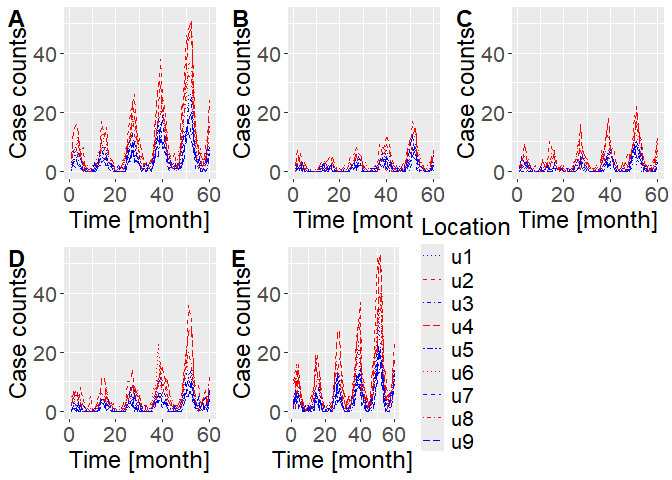
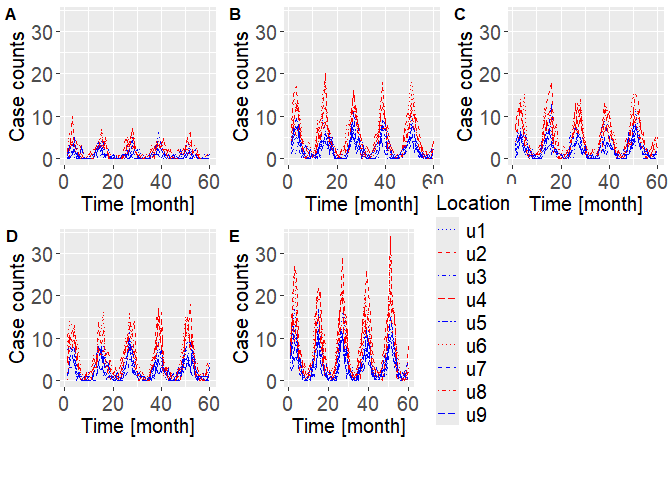
update

diff --git a/src/cppFunctions.cpp b/src/cppFunctions.cpp
@@ -991,8 +991,15 @@ List SMOOTHINGgradmultstrainLoglikelihood_cpp(arma::cube y, arma::mat e_it, int 
       grad_r = arma::sum(delta, 0).t() - Q_r * r;
       grad_r = Qstz_r.t() * grad_r;
       arma::mat diag_pois_colsum = arma::diagmat(arma::sum(poisMean, 0));
-      cov_r = arma::inv_sympd(diag_pois_colsum + Q_r + arma::eye(time, time) * 1e-8);
-      cov_r = Qstz_r.t() * cov_r * Qstz_r;
+      arma::mat precision_r = diag_pois_colsum + Q_r + arma::eye(time, time) * 1e-8;
+      arma::mat cov_r_raw;
+      bool successR = arma::inv_sympd(cov_r_raw, precision_r);
+      if(!successR){
+        cov_r = arma::eye(time, time);
+        loglike_total = R_NegInf;
+      }else{
+        cov_r = Qstz_r.t() * cov_r_raw * Qstz_r;
+      }
 
       // Seasonal s gradients
       arma::vec fishervec_s(12, arma::fill::zeros);
@@ -1007,16 +1014,29 @@ List SMOOTHINGgradmultstrainLoglikelihood_cpp(arma::cube y, arma::mat e_it, int 
       }
       grad_s -= Q_s * s;
       grad_s = Qstz_s.t() * grad_s;
-      cov_s = arma::inv_sympd(arma::diagmat(fishervec_s) + Q_s  + arma::eye(12, 12) * 1e-8);
-      cov_s = Qstz_s.t() * cov_s * Qstz_s;
-
+      arma::mat precision_s = arma::diagmat(fishervec_s) + Q_s  + arma::eye(12, 12) * 1e-8;
+      arma::mat cov_s_raw;
+      bool successS = arma::inv_sympd(cov_s_raw, precision_s);
+      if(!successS){
+        cov_s = arma::eye(12, 12);
+        loglike_total = R_NegInf;
+      }else{
+        cov_s = Qstz_s.t() * cov_s_raw * Qstz_s;
+      }
 
       // Spatial u gradients
       grad_u = arma::sum(delta, 1) - Q_u * u;
       grad_u = Qstz_u.t() * grad_u;
       arma::mat diag_pois_rowsum = arma::diagmat(arma::sum(poisMean, 1));
-      cov_u = arma::inv_sympd(diag_pois_rowsum + Q_u + arma::eye(ndept, ndept) * 1e-8);
-      cov_u = Qstz_u.t() * cov_u * Qstz_u;
+      arma::mat precision_u = diag_pois_rowsum + Q_u + arma::eye(ndept, ndept) * 1e-8;
+      arma::mat cov_u_raw;
+      bool successU = arma::inv_sympd(cov_u_raw, precision_u);
+      if(!successU){
+        cov_u = arma::eye(ndept, ndept);
+        loglike_total = R_NegInf;
+      }else{
+        cov_u = Qstz_u.t() * cov_u_raw * Qstz_u;
+      }
     }
 
     return List::create(
@@ -1265,8 +1285,15 @@ List FFBSgradmultstrainLoglikelihood_cpp(arma::cube y, arma::mat e_it, int nstra
       grad_r = arma::sum(delta, 0).t() - Q_r * r;
       grad_r = Qstz_r.t() * grad_r;
       arma::mat diag_pois_colsum = arma::diagmat(arma::sum(poisMean, 0));
-      cov_r = arma::inv_sympd(diag_pois_colsum + Q_r + arma::eye(time, time) * 1e-8);
-      cov_r = Qstz_r.t() * cov_r * Qstz_r;
+      arma::mat precision_r = diag_pois_colsum + Q_r + arma::eye(time, time) * 1e-8;
+      arma::mat cov_r_raw;
+      bool successR = arma::inv_sympd(cov_r_raw, precision_r);
+      if(!successR){
+        cov_r = arma::eye(time, time);
+        loglike_total = R_NegInf;
+      }else{
+        cov_r = Qstz_r.t() * cov_r_raw * Qstz_r;
+      }
 
       // Seasonal s gradients
       arma::vec fishervec_s(12, arma::fill::zeros);
@@ -1281,15 +1308,29 @@ List FFBSgradmultstrainLoglikelihood_cpp(arma::cube y, arma::mat e_it, int nstra
       }
       grad_s -= Q_s * s;
       grad_s = Qstz_s.t() * grad_s;
-      cov_s = arma::inv_sympd(arma::diagmat(fishervec_s) + Q_s  + arma::eye(12, 12) * 1e-8);
-      cov_s = Qstz_s.t() * cov_s * Qstz_s;
+      arma::mat precision_s = arma::diagmat(fishervec_s) + Q_s  + arma::eye(12, 12) * 1e-8;
+      arma::mat cov_s_raw;
+      bool successS = arma::inv_sympd(cov_s_raw, precision_s);
+      if(!successS){
+        cov_s = arma::eye(12, 12);
+        loglike_total = R_NegInf;
+      }else{
+        cov_s = Qstz_s.t() * cov_s_raw * Qstz_s;
+      }
 
       // Spatial u gradients
       grad_u = arma::sum(delta, 1) - Q_u * u;
       grad_u = Qstz_u.t() * grad_u;
       arma::mat diag_pois_rowsum = arma::diagmat(arma::sum(poisMean, 1));
-      cov_u = arma::inv_sympd(diag_pois_rowsum + Q_u + arma::eye(ndept, ndept) * 1e-8);
-      cov_u = Qstz_u.t() * cov_u * Qstz_u;
+      arma::mat precision_u = diag_pois_rowsum + Q_u + arma::eye(ndept, ndept) * 1e-8;
+      arma::mat cov_u_raw;
+      bool successU = arma::inv_sympd(cov_u_raw, precision_u);
+      if(!successU){
+        cov_u = arma::eye(ndept, ndept);
+        loglike_total = R_NegInf;
+      }else{
+        cov_u = Qstz_u.t() * cov_u_raw * Qstz_u;
+      }
     }
 
     return List::create(

diff --git a/README.md b/README.md
@@ -50,35 +50,84 @@ sim_adjmat<- matrix(0, nrow = 9, ncol = 9)
 uppertriang<- c(1,0,1,0,0,0,0,0,1,0,1,0,0,0,0,0,0,1,0,0,0,1,0,1,0,0,1,0,1,0,0,0,1,1,0,1)
 gdata::upperTriangle(sim_adjmat, byrow=TRUE)<- uppertriang
 gdata::lowerTriangle(sim_adjmat, byrow=FALSE)<- uppertriang
-set.seed(0); mod0<- simulateMultiModel(Modeltype = 0, time = 60, nstrain = 5, adj.matrix = sim_adjmat)
+set.seed(1234); mod0<- simulateMultiModel(Modeltype = 0, time = 60, nstrain = 5, adj.matrix = sim_adjmat)
 multitypeFig(y=mod0[["y"]])
 ```
 
 <img src="man/figures/README-simulation-1.png" width="100%" />
 
-    #> Warning in par(fig = c(0, 1, 0, 1), oma = c(0, 0, 0, 0), mar = c(0, 0, 0, :
-    #> calling par(new=TRUE) with no plot
-
-<img src="man/figures/README-simulation-2.png" width="100%" />
-
 <img src="man/figures/README-figures-1.png" width="100%" />
 
-    #> Warning in par(fig = c(0, 1, 0, 1), oma = c(0, 0, 0, 0), mar = c(0, 0, 0, :
-    #> calling par(new=TRUE) with no plot
-
-<img src="man/figures/README-figures-2.png" width="100%" />
-
-Inference using either Hamiltonian Monte Carlo or a bespoke MCMC
-algorithm via MultiOutbreaks:
+Inference using a fast purpose-built MCMC algorithm or Hamiltonian Monte
+Carlo (HMC is slower):
 
 ``` r
-#HMCfit0<- SMOOTHING_INFERENCE(y=mod0[["y"]], e_it=mod0[["e_it"]], Modeltype = 0, sim_adjmat, MCMC_iterations = 15000, HMC_iterations = 5000, Stan = TRUE, GPU = FALSE)
-#mcmc.plot(HMCfit0)
-#inf.plot(HMCfit0)
+MCMCfit0<- SMOOTHING_INFERENCE(y=mod0[["y"]], e_it=mod0[["e_it"]], Modeltype = 0, sim_adjmat, MCMC_iterations = 50000, HMC_iterations = 5000, Stan = FALSE)
+#> Iteration: 1000 
+#> Iteration: 2000 
+#> Iteration: 3000 
+#> Iteration: 4000 
+#> Iteration: 5000 
+#> Iteration: 6000 
+#> Iteration: 7000 
+#> Iteration: 8000 
+#> Iteration: 9000 
+#> Iteration: 10000 
+#> Iteration: 11000 
+#> Iteration: 12000 
+#> Iteration: 13000 
+#> Iteration: 14000 
+#> Iteration: 15000 
+#> Iteration: 16000 
+#> Iteration: 17000 
+#> Iteration: 18000 
+#> Iteration: 19000 
+#> Iteration: 20000 
+#> Iteration: 21000 
+#> Iteration: 22000 
+#> Iteration: 23000 
+#> Iteration: 24000 
+#> Iteration: 25000 
+#> Iteration: 26000 
+#> Iteration: 27000 
+#> Iteration: 28000 
+#> Iteration: 29000 
+#> Iteration: 30000 
+#> Iteration: 31000 
+#> Iteration: 32000 
+#> Iteration: 33000 
+#> Iteration: 34000 
+#> Iteration: 35000 
+#> Iteration: 36000 
+#> Iteration: 37000 
+#> Iteration: 38000 
+#> Iteration: 39000 
+#> Iteration: 40000 
+#> Iteration: 41000 
+#> Iteration: 42000 
+#> Iteration: 43000 
+#> Iteration: 44000 
+#> Iteration: 45000 
+#> Iteration: 46000 
+#> Iteration: 47000 
+#> Iteration: 48000 
+#> Iteration: 49000 
+#> Iteration: 50000 
+#> Time difference of 3.645388 mins
+mcmc.plot(MCMCfit0)
+```
 
-#MCMCfit0<- SMOOTHING_INFERENCE(y=mod0[["y"]], e_it=mod0[["e_it"]], Modeltype = 0, sim_adjmat, MCMC_iterations = 15000, HMC_iterations = 5000, Stan = FALSE)
-#mcmc.plot(MCMCfit0)
-#inf.plot(MCMCfit0)
+<img src="man/figures/README-inference-1.png" width="100%" /><img src="man/figures/README-inference-2.png" width="100%" /><img src="man/figures/README-inference-3.png" width="100%" /><img src="man/figures/README-inference-4.png" width="100%" /><img src="man/figures/README-inference-5.png" width="100%" /><img src="man/figures/README-inference-6.png" width="100%" /><img src="man/figures/README-inference-7.png" width="100%" /><img src="man/figures/README-inference-8.png" width="100%" /><img src="man/figures/README-inference-9.png" width="100%" /><img src="man/figures/README-inference-10.png" width="100%" />
+
+``` r
+inf.plot(MCMCfit0)
+```
+
+<img src="man/figures/README-inference-11.png" width="100%" /><img src="man/figures/README-inference-12.png" width="100%" />
+
+``` r
+
+#HMCfit0<- SMOOTHING_INFERENCE(y=mod0[["y"]], e_it=mod0[["e_it"]], Modeltype = 0, sim_adjmat, MCMC_iterations = 15000, HMC_iterations = 5000, Stan = TRUE, GPU = FALSE)
 ```
 
 Simulation, inference and multi outbreak detection as described in
@@ -90,14 +139,8 @@ sim_adjmat<- matrix(0, nrow = 9, ncol = 9)
 uppertriang<- c(1,0,1,0,0,0,0,0,1,0,1,0,0,0,0,0,0,1,0,0,0,1,0,1,0,0,1,0,1,0,0,0,1,1,0,1)
 gdata::upperTriangle(sim_adjmat, byrow=TRUE)<- uppertriang
 gdata::lowerTriangle(sim_adjmat, byrow=FALSE)<- uppertriang
-set.seed(0); mod1<- simulateMultiModel(Modeltype = 1, time = 60, nstrain = 5, adj.matrix = sim_adjmat, B = c(1.2,2.4,1.1,0.4,0.7))
+set.seed(1234); mod1<- simulateMultiModel(Modeltype = 1, time = 60, nstrain = 5, adj.matrix = sim_adjmat, B = c(1.2,2.4,1.1,0.4,0.7))
 #multitypeFig(y=mod1[["y"]])
-#HMCfit1<- SMOOTHING_INFERENCE(y=mod1[["y"]], e_it=mod1[["e_it"]], Modeltype = 1, sim_adjmat, MCMC_iterations = 15000, HMC_iterations = 5000, Stan = TRUE, GPU = FALSE)
-#mcmc.plot(HMCfit1)
-#inf.plot(HMCfit1)
-
-#MarginalProbabilitiesHMC<- Posteriormultstrain.Decoding(y=mod1[["y"]],e_it=mod1[["e_it"]],inf.object = HMCfit1,Modeltype = 1,y_total = NULL,thinningL = 10,burn.in = 2000)
-#image(t(MarginalProbabilities[,,1]))
 
 #MCMCfit1<- SMOOTHING_INFERENCE(y=mod1[["y"]], e_it=mod1[["e_it"]], Modeltype = 1, sim_adjmat, MCMC_iterations = 15000, HMC_iterations = 5000, Stan = FALSE, GPU = FALSE)
 #mcmc.plot(MCMCfit1)
@@ -116,11 +159,7 @@ sim_adjmat<- matrix(0, nrow = 9, ncol = 9)
 uppertriang<- c(1,0,1,0,0,0,0,0,1,0,1,0,0,0,0,0,0,1,0,0,0,1,0,1,0,0,1,0,1,0,0,0,1,1,0,1)
 gdata::upperTriangle(sim_adjmat, byrow=TRUE)<- uppertriang
 gdata::lowerTriangle(sim_adjmat, byrow=FALSE)<- uppertriang
-set.seed(0); mod1<- simulateMultiModel(Modeltype = 1, time = 60, nstrain = 5, adj.matrix = sim_adjmat, B = c(1.2,2.4,1.1,0.4,0.7))
-#HMCfit1<- SMOOTHING_INFERENCE(y=mod0[["y"]], e_it=mod0[["e_it"]], Modeltype = 1, sim_adjmat, MCMC_iterations = 15000, HMC_iterations = 5000, Stan = TRUE, GPU = FALSE)
-#ModelEvidenceBridgeSamplingPackage(y=mod1[["y"]],e_it = mod1[["e_it"]],adjmat = sim_adjmat,Modeltype =1 ,inf.object = HMCfit1,y_total = NULL)
-#ModelEvidence(y=mod1[["y"]],e_it = mod1[["e_it"]],adjmat = sim_adjmat,Modeltype =1 ,inf.object = HMCfit1, num_samples = 5000, y_total = NULL)
-
+set.seed(1234); mod1<- simulateMultiModel(Modeltype = 1, time = 60, nstrain = 5, adj.matrix = sim_adjmat, B = c(1.2,2.4,1.1,0.4,0.7))
 #MCMCfit1<- SMOOTHING_INFERENCE(y=mod0[["y"]], e_it=mod0[["e_it"]], Modeltype = 1, sim_adjmat, MCMC_iterations = 15000, HMC_iterations = 5000, Stan = FALSE, GPU = FALSE)
 #ModelEvidenceBridgeSamplingPackage(y=mod1[["y"]],e_it = mod1[["e_it"]],adjmat = sim_adjmat,Modeltype =1 ,inf.object = MCMCfit1,y_total = NULL)
 #ModelEvidence(y=mod1[["y"]],e_it = mod1[["e_it"]],adjmat = sim_adjmat,Modeltype =1 ,inf.object = MCMCfit1, num_samples = 5000,y_total = NULL)